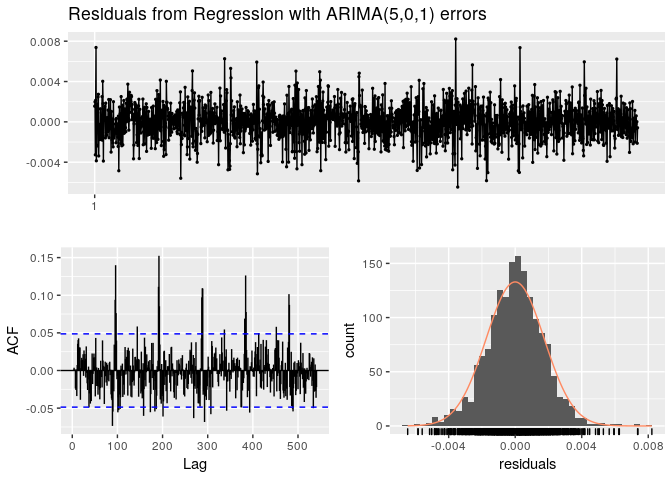
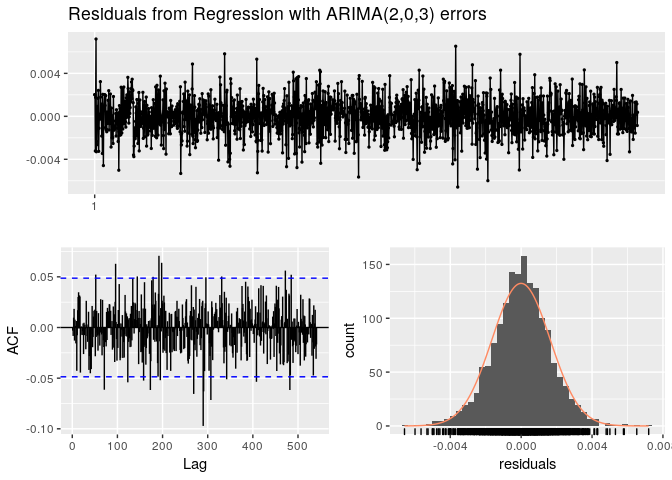
added copying md_files dir to make_md

diff --git a/devereux_arima/reports/devereux_slough_time_series.md b/devereux_arima/reports/devereux_slough_time_series.md
@@ -1,7 +1,7 @@
 Devereux Slough Time Series
 ================
 Christopher Chan
-20:46 26 March 2019
+20:47 26 March 2019
 
 Introduction
 ============
@@ -124,7 +124,7 @@ cat('Absolute difference in water level over the period of',
 3 EDA
 =====
 
-Graphing the water level across time we gather a number of important insights into our data. The first is that the time series is not stationary. A quick look at the graph and we can conclude that the mean decreases over time. Without further testing it is too hard to tell if the variance and covariance vary over time, but I believe they are relatively constant. If the variance is constant than we can perform additive decomposition, this is where the seasonal variation is constant across time. A additive model is describe as: ![Time series = Seasonal + Trend + Random](https://latex.codecogs.com/png.latex?Time%20series%20%3D%20Seasonal%20%2B%20Trend%20%2B%20Random "Time series = Seasonal + Trend + Random")
+Graphing the water level across time we gather a number of important insights into our data. The first is that the time series is not stationary. A quick look at the graph and we can conclude that the mean decreases over time. Without further testing it is too hard to tell if the variance and covariance vary over time, but I believe they are relatively constant. If the variance is constant than we can perform additive decomposition, this is where the seasonal variation is constant across time. A additive model is describe as: *T**i**m**e**s**e**r**i**e**s* = *S**e**a**s**o**n**a**l* + *T**r**e**n**d* + *R**a**n**d**o**m*
 
 Second, it appears we have some seasonality, on a daily basis. This should be removed in order to get a accurate depiction of the trend of the series. These statistical facts fit the ecological realities of Devereux Slough. Because of the very short rainy season, roughly 3 months, in Santa Barbara we would expect to see water level decrease in late winter. Additionally, we should expect a annual seasonality, meaning that the water level will have a predictable cycle over the course of a year. We'll have to factor both the daily and annual seasonality into our time series model.
 
@@ -165,7 +165,7 @@ ggtsdisplay(diff(lv_df$level_m, lag=96), main='ACF and PACF of diff(level_m)')
 
 ![](devereux_slough_time_series_files/figure-markdown_github/unnamed-chunk-5-2.png)
 
-A more mathematically rigorous analysis of stationarity is the Augmented Dickey Fuller (ADF) Test. Running the ADF test on our data with daily seasonality taken into account gives us a p-value of less than 0.01. Because our p-value &gt; 0.05 we can reject our ![H\_0](https://latex.codecogs.com/png.latex?H_0 "H_0") that there is a unit root in our time series, and accept the ![H\_1](https://latex.codecogs.com/png.latex?H_1 "H_1") that the time series is stationary.
+A more mathematically rigorous analysis of stationarity is the Augmented Dickey Fuller (ADF) Test. Running the ADF test on our data with daily seasonality taken into account gives us a p-value of less than 0.01. Because our p-value &gt; 0.05 we can reject our *H*<sub>0</sub> that there is a unit root in our time series, and accept the *H*<sub>1</sub> that the time series is stationary.
 
 ``` r
 lv_adf <- adf.test(lv_df$level_m, k=96)
@@ -183,16 +183,14 @@ cat('p-value from adf.test() of lv_df:', lv_adf$p.value,
 ==================
 
 Time series can be approached a number of different ways, however some of the most common are autoregressive (AR) models, moving average (MA) models and autoregressive integrated moving average (ARIMA) models. This analysis will use an ARIMA model to model our water level time series. AR assumes points depend linearly on previous points and thus its formula is very similar to linear regression, with a error term. The MA model uses the errors of previous points to predict future points. ARIMA model combines both AR and MA models into a single model which can often model more complex interactions. The I term is the differencing factor. The formula for an ARIMA model is:
-
-![Y\_{t} = c + \\phi\_{1}y\_{dt-1} + \\phi\_{p}y\_{dt-p} + ... + \\theta\_{1}\\epsilon\_{t-1} + \\theta\_{q}\\epsilon\_{t-q} + \\epsilon\_{t}](https://latex.codecogs.com/png.latex?Y_%7Bt%7D%20%3D%20c%20%2B%20%5Cphi_%7B1%7Dy_%7Bdt-1%7D%20%2B%20%5Cphi_%7Bp%7Dy_%7Bdt-p%7D%20%2B%20...%20%2B%20%5Ctheta_%7B1%7D%5Cepsilon_%7Bt-1%7D%20%2B%20%5Ctheta_%7Bq%7D%5Cepsilon_%7Bt-q%7D%20%2B%20%5Cepsilon_%7Bt%7D "Y_{t} = c + \phi_{1}y_{dt-1} + \phi_{p}y_{dt-p} + ... + \theta_{1}\epsilon_{t-1} + \theta_{q}\epsilon_{t-q} + \epsilon_{t}")
+*Y*<sub>*t*</sub> = *c* + *ϕ*<sub>1</sub>*y*<sub>*d**t* − 1</sub> + *ϕ*<sub>*p*</sub>*y*<sub>*d**t* − *p*</sub> + ... + *θ*<sub>1</sub>*ϵ*<sub>*t* − 1</sub> + *θ*<sub>*q*</sub>*ϵ*<sub>*t* − *q*</sub> + *ϵ*<sub>*t*</sub>
 
 The use of a AR model makes sense in modelling water level, where past water levels will dictate present and future water levels. The benefits of a MA model is that it accounts for stochastic events. These events will cause some shift in the time series and eventually their effect will dispate over time. This is extremely useful in modelling natural systems as we have limited, or sometimes no, control over the environment. The major benefit of the ARIMA model is that it allows for modelling of more complex systems.
 
 The Fourier Transform (FT) decomposes a function based on time into the frequencies that make it up, using the understanding that all waveforms can be drescibed by a sum of sinusoids of different frequencies
 
 The inverse fourier transform that converts a function of frequency into a function of time, as follows:
-
-![f(x) = \\int^{\\infty}\_{-\\infty}F(K)e^{2{\\pi}ikx}dk](https://latex.codecogs.com/png.latex?f%28x%29%20%3D%20%5Cint%5E%7B%5Cinfty%7D_%7B-%5Cinfty%7DF%28K%29e%5E%7B2%7B%5Cpi%7Dikx%7Ddk "f(x) = \int^{\infty}_{-\infty}F(K)e^{2{\pi}ikx}dk")
+*f*(*x*)=∫<sub>−∞</sub><sup>∞</sup>*F*(*K*)*e*<sup>2*π**i**k**x*</sup>*d**k*
 
 We need to use a FT because seasonal versions of ARIMA are not designed to take in periods as long as daily, 96, instead seasonal ARIMA periods are typically much shorter like monthly, 12, or quarterly, 4. ARIMA implemented in R has a seasonal period max of 350, but I saw that I was testing the limits of my 16gb of memory at even 96. Instead we'll use the fourier transformation, this has a number of advantages:
 
@@ -203,10 +201,8 @@ We need to use a FT because seasonal versions of ARIMA are not designed to take 
 The main disadvantage is that seasonality is assumed to be fixed. In this case it is fine, because the variance among days is stable and seasonality is very stable, we won't take more than 96 measurements per day and we've accounted for leap years.
 
 For this project we'll use a multi-seasonal time series (msts) function as our time series. This allows us to take into account the daily seasonality we've seen from the plots and the annual seasonality we'd expect to see based on meteorological reasoning. Since the loggers take measurements every 15 minutes we get our seasonal.period from the following equations:
-
-![\\text{4(measurements per hour) \* 24(hours in a day) = 96(measurements per day)}\\\\
-\\text{96(measurements per day) \* 365.25(days per year) = 35064(measurements per year)}](https://latex.codecogs.com/png.latex?%5Ctext%7B4%28measurements%20per%20hour%29%20%2A%2024%28hours%20in%20a%20day%29%20%3D%2096%28measurements%20per%20day%29%7D%5C%5C%0A%5Ctext%7B96%28measurements%20per%20day%29%20%2A%20365.25%28days%20per%20year%29%20%3D%2035064%28measurements%20per%20year%29%7D "\text{4(measurements per hour) * 24(hours in a day) = 96(measurements per day)}\\
-\text{96(measurements per day) * 365.25(days per year) = 35064(measurements per year)}")
+$$\\text{4(measurements per hour) \* 24(hours in a day) = 96(measurements per day)}\\\\
+\\text{96(measurements per day) \* 365.25(days per year) = 35064(measurements per year)}$$
 
 Now that we have normalized our data and have time series object made we create a model.
 
@@ -260,7 +256,7 @@ autoplot(plotter)
 
 checkresiduals() is a nice wrapper function that calls a number of test typically used in validating time series models. We'll look at each test individually to make sure we can trust our forecasts.
 
-Running a Lijung-Box test helps give us a quantifiable determination if the our model is valide. The Ljung-Box test examines if there is autocorrelation in the series. The ![H\_0](https://latex.codecogs.com/png.latex?H_0 "H_0") of the Box-Ljung test is that the data is independently distributed and we do not experience non-random correlation, rejecting the ![H\_0](https://latex.codecogs.com/png.latex?H_0 "H_0") means that serial correlation exist in the data. This is opposite of most statistical test, so it's a little weird to think about. Since the p-value &gt; 0.05, 0.3545, we fail to reject the ![H\_0](https://latex.codecogs.com/png.latex?H_0 "H_0") and conclude the data is independently distributed.
+Running a Lijung-Box test helps give us a quantifiable determination if the our model is valide. The Ljung-Box test examines if there is autocorrelation in the series. The *H*<sub>0</sub> of the Box-Ljung test is that the data is independently distributed and we do not experience non-random correlation, rejecting the *H*<sub>0</sub> means that serial correlation exist in the data. This is opposite of most statistical test, so it's a little weird to think about. Since the p-value &gt; 0.05, 0.3545, we fail to reject the *H*<sub>0</sub> and conclude the data is independently distributed.
 
 The residuals from our model should not exhibit any discernible patterns and should be white noise. Additionally, the mean should be 0 and the variance constant. Looking at the residual plot we can see that it fullfils all these requirements. This is further confirmed by our distribution plot of the residuals, which is roughly normally distributed.
 

diff --git a/devereux_arima/reports/test.md b/devereux_arima/reports/test.md
@@ -1,46 +1,47 @@
 test
 ================
 Christoper Chan
-21:06 26 March 2019
+00:03 27 March 2019
 
 ``` r
 library(tidyverse)
-```
-
-    ## ── Attaching packages ────────────────────────────────────────────────────────────────────── tidyverse 1.2.1 ──
-
-    ## ✔ ggplot2 3.1.0       ✔ purrr   0.3.2  
-    ## ✔ tibble  2.1.1       ✔ dplyr   0.8.0.1
-    ## ✔ tidyr   0.8.3       ✔ stringr 1.4.0  
-    ## ✔ readr   1.3.1       ✔ forcats 0.4.0
-
-    ## ── Conflicts ───────────────────────────────────────────────────────────────────────── tidyverse_conflicts() ──
-    ## ✖ dplyr::filter() masks stats::filter()
-    ## ✖ dplyr::lag()    masks stats::lag()
-
-``` r
 library(ggplot2)
 library(here)
 ```
-
-    ## here() starts at /home/ckc/Documents/git_projects/projects/devereux_arima
 
 This correctly makes a md file in the reports.
 
 ``` r
 make_md <- function(input_name, output_name) {
-  # Moves the knitted md from the notebooks dir to reports dir and deletes 
-  # orginal. input_name_files are still located in notebooks dir and are 
-  # referenced in the report.md.
+  # Moves the knitted md and supporting images from the notebooks dir to reports
+  # dir. A copy of the md and 
   # 
   # Args:
   #   input_name: The name of the knitted md. Typically same as the Rmd title.
   #   output_name: A new name for the md in the reports dir.
   #
   # Output: A new md in the reports dir. 
-  file.rename(here('notebooks', input_name), here('reports', output_name))
+  file.rename(from = here('notebooks', input_name), 
+              to = here('reports', output_name))
+  
+  file.copy(from = list.files(pattern = '*files'), 
+            to = here('reports'), recursive = TRUE)
 }
 ```
+
+``` r
+make_md('test.md', 'test.md')
+```
+
+    ## Warning in file.rename(from = here("notebooks", input_name), to =
+    ## here("reports", : cannot rename file '/home/ckc/Documents/git_projects/
+    ## projects/devereux_arima/notebooks/test.md' to '/home/ckc/Documents/
+    ## git_projects/projects/devereux_arima/reports/test.md', reason 'No such file
+    ## or directory'
+
+    ## [1] TRUE TRUE
+
+file.rename(here('notebooks', paste(input\_name, 'files', sep = '*')), here('reports', paste(output\_name, 'files', sep = '*')), recursive = TRUE)
 
 TO DO:
 
@@ -59,7 +60,7 @@ a <- ggplot(df, aes(X, Y)) +
 print(a)
 ```
 
-![](test_files/figure-markdown_github/unnamed-chunk-2-1.png)
+![](test_files/figure-markdown_github/unnamed-chunk-3-1.png)
 
 ``` r
 print('hello world')

diff --git a/devereux_arima/notebooks/test.md b/devereux_arima/notebooks/test.md
@@ -1,44 +1,31 @@
 test
 ================
 Christoper Chan
-21:20 26 March 2019
+00:04 27 March 2019
 
 ``` r
 library(tidyverse)
-```
-
-    ## ── Attaching packages ────────────────────────────────────────────────────────────────────── tidyverse 1.2.1 ──
-
-    ## ✔ ggplot2 3.1.0       ✔ purrr   0.3.2  
-    ## ✔ tibble  2.1.1       ✔ dplyr   0.8.0.1
-    ## ✔ tidyr   0.8.3       ✔ stringr 1.4.0  
-    ## ✔ readr   1.3.1       ✔ forcats 0.4.0
-
-    ## ── Conflicts ───────────────────────────────────────────────────────────────────────── tidyverse_conflicts() ──
-    ## ✖ dplyr::filter() masks stats::filter()
-    ## ✖ dplyr::lag()    masks stats::lag()
-
-``` r
 library(ggplot2)
 library(here)
 ```
-
-    ## here() starts at /home/ckc/Documents/git_projects/projects/devereux_arima
 
 This correctly makes a md file in the reports.
 
 ``` r
 make_md <- function(input_name, output_name) {
-  # Moves the knitted md from the notebooks dir to reports dir and deletes 
-  # orginal. input_name_files are still located in notebooks dir and are 
-  # referenced in the report.md.
+  # Moves the knitted md and supporting images from the notebooks dir to reports
+  # dir. A copy of the md and 
   # 
   # Args:
   #   input_name: The name of the knitted md. Typically same as the Rmd title.
   #   output_name: A new name for the md in the reports dir.
   #
   # Output: A new md in the reports dir. 
-  file.rename(here('notebooks', input_name), here('reports', output_name))
+  file.rename(from = here('notebooks', input_name), 
+              to = here('reports', output_name))
+  
+  file.copy(from = list.files(pattern = '*files'), 
+            to = here('reports'), recursive = TRUE)
 }
 ```
 
@@ -46,13 +33,7 @@ make_md <- function(input_name, output_name) {
 make_md('test.md', 'test.md')
 ```
 
-    ## Warning in file.rename(here("notebooks", input_name), here("reports",
-    ## output_name)): cannot rename file '/home/ckc/Documents/git_projects/
-    ## projects/devereux_arima/notebooks/test.md' to '/home/ckc/Documents/
-    ## git_projects/projects/devereux_arima/reports/test.md', reason 'No such file
-    ## or directory'
-
-    ## [1] FALSE
+    ## [1] TRUE TRUE
 
 file.rename(here('notebooks', paste(input\_name, 'files', sep = '*')), here('reports', paste(output\_name, 'files', sep = '*')), recursive = TRUE)
 

diff --git a/devereux_arima/notebooks/devereux_slough_time_series.md b/devereux_arima/notebooks/devereux_slough_time_series.md
@@ -1,7 +1,7 @@
 Devereux Slough Time Series
 ================
 Christopher Chan
-20:47 26 March 2019
+00:06 27 March 2019
 
 Introduction
 ============
@@ -71,22 +71,26 @@ library(tseries)
 
 ``` r
 make_md <- function(input_name, output_name) {
-  # Moves the knitted md from the notebooks dir to reports dir and deletes 
-  # orginal. input_name_files are still located in notebooks dir and are 
-  # referenced in the report.md.
+  # Moves the knitted md and supporting images from the notebooks dir to reports
+  # dir. A copy of the md and 
   # 
   # Args:
   #   input_name: The name of the knitted md. Typically same as the Rmd title.
   #   output_name: A new name for the md in the reports dir.
   #
   # Output: A new md in the reports dir. 
-  file.rename(from = here('notebooks', input_name), to = here('reports', output_name))
+  file.rename(from = here('notebooks', input_name), 
+              to = here('reports', output_name))
+  
+  file.copy(from = list.files(pattern = '*files'), 
+            to = here('reports'), recursive = TRUE)
 }
+
 
 make_md('devereux_slough_time_series.md', 'devereux_slough_time_series.md')
 ```
 
-    ## [1] TRUE
+    ## [1] TRUE TRUE
 
 2 Normalizing the data
 ======================
@@ -225,8 +229,8 @@ arima_param <- function(ts){
   #
   best_fit <- list(model=Inf, aic=Inf, i=Inf, j=Inf)
   
-  for (i in 1:2){ #1:10
-    for (j in 1:2){ #1:5
+  for (i in 1:10){ #1:10
+    for (j in 1:5){ #1:5
       fit <- auto.arima(ts, seasonal=FALSE, xreg=fourier(ts, K=c(i,j)))
       if (fit$aic < best_fit$aic)
         best_fit <- list(model=fit, aicc=fit$aic, i=i, j=j)
@@ -271,10 +275,10 @@ checkresiduals(arima_model$model, lag=96)
     ## 
     ##  Ljung-Box test
     ## 
-    ## data:  Residuals from Regression with ARIMA(5,0,1) errors
-    ## Q* = 139.72, df = 81, p-value = 5.539e-05
+    ## data:  Residuals from Regression with ARIMA(2,0,3) errors
+    ## Q* = 70.722, df = 67, p-value = 0.3545
     ## 
-    ## Model df: 15.   Total lags used: 96
+    ## Model df: 29.   Total lags used: 96
 
 6 Forecasting
 =============
